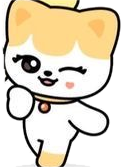
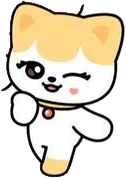
MINIVE を輪郭に沿って切り抜き直し、頭が欠けないようにした。全体コンプ率の見出しを大きく、パーセントを小さく同じ書体に

diff --git a/src/pages/Home.tsx b/src/pages/Home.tsx
@@ -149,12 +149,10 @@ export default function Home() {
         </Link>
       )}
 
-      <div className="small muted" style={{ marginTop: 16 }}>全体コンプ率</div>
+      <div className="total-title">全体コンプ率</div>
       <div style={{ display: 'flex', alignItems: 'baseline', gap: 8 }}>
-        <span className="num" style={{ fontSize: 68, fontWeight: 800, lineHeight: 1.05, letterSpacing: '-0.03em' }}>
-          {pctText(total)}
-        </span>
-        <span className="small muted num">
+        <span className="total-pct">{pctText(total)}</span>
+        <span className="small muted">
           {total.owned} / {total.total} 種類
         </span>
       </div>

diff --git a/src/styles.css b/src/styles.css
@@ -214,3 +214,7 @@ a { color: inherit; text-decoration: none; }
 .minive-trio { display: inline-flex; align-items: flex-end; flex: none; }
 .minive-trio img { display: block; height: 28px; width: auto; margin: 0 -2px; }
 .topbar.home h1 { overflow: visible; }
+
+/* ホームの全体コンプ率：見出しと数字を同じ書体・太さにそろえる（本人の要望、2026-09-30） */
+.total-title { margin-top: 16px; font-size: 19px; font-weight: 800; letter-spacing: 0.02em; }
+.total-pct { font-size: 52px; font-weight: 800; line-height: 1.1; letter-spacing: -0.01em; font-variant-numeric: tabular-nums; color: var(--all); }

diff --git a/docs/00_進捗メモ.md b/docs/00_進捗メモ.md
@@ -239,14 +239,16 @@
 
 19. 画面の調整（2026-09-30、本人の要望）
    - ホームのタイトルをロゴに（「poca」は斜めの細身の書体＋「MASTER」は字間を広げた太字、ローズピンクのグラデーション、小さな星）
-   - 全体コンプ率を大きく（46→68px）・少し下に。小さい文字（.small・.xs）を太く（600）
+   - 全体コンプ率を少し下に。小さい文字（.small・.xs）を太く（600）
+   - 全体コンプ率（2026-09-30 2 回目）：「全体コンプ率」を見出しらしく 19px の太字に、パーセントは 52px・ローズピンク。数字だけ別の書体にするのをやめ、同じ書体にそろえた
    - すべての画面：上のバーの線の下の余白を 12px 広げ、下のタブの上の余白を 24→48px に
    - マイアルバムは 1 冊だけ。タブを開くとすぐ 1 ページ目を大きく出す（一覧はなくした）
 
 20. MINIVE（2026-09-30、本人の要望。本人が送った公式の MINIVE の画像を使う）
    - アプリのアイコン：6 人のキャラクターだけ（「MINIVE」の文字なし）を淡いピンクの正方形に（public/icon-192・512・apple-touch-icon）。
      iPhone のホーム画面のアイコンは入れ直さないと変わらない（13. と同じ手順）
-   - 1 人ずつ切り抜いた画像：public/minive/（squirrel・bear・chick・rabbit・puppy・cat）。上の段の 3 人は体の下が下の段に隠れていたので平らに切れている
+   - 1 人ずつ切り抜いた画像：public/minive/（squirrel・bear・chick・rabbit・puppy・cat）。黒い輪郭で囲まれた部分ごとに持ち主を決めて切り抜いた
+     （2026-09-30 作り直し：直線で区切ったら下の段の頭が欠けた）。上の段の 3 人は体の下が下の段に隠れていたので平らに切れている
    - コレクション・マイアルバム・設定のタイトルの横に 6 人を並べる（src/components/Minive.tsx）。ホームはロゴの左右に 3 人ずつ
    - 動かさない（本人：「走る」は走っているポーズのイラストという意味。2026-09-30）。バーの高さに収まる大きさにして上が切れないようにした
 21. メンバーごとに違うグッズの表示（2026-09-30、本人の指摘「IVE SCOUT でリズだけ別の段」）
